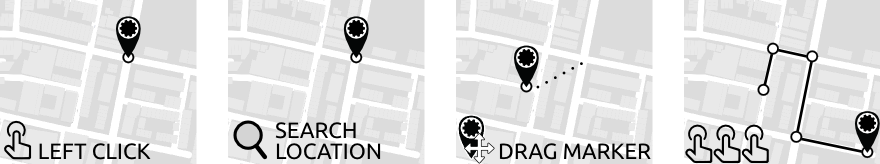
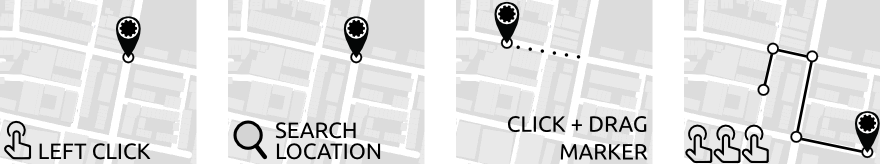
updated map help > ver 3.1 from meeting

Changed region(s): [[0.5216, 0.7012, 0.7364, 1.0], [0.5523, 0.0, 0.6443, 0.5793], [0.6443, 0.3354, 0.675, 0.3659]]

diff --git a/cadence/public/css/style.css b/cadence/public/css/style.css
@@ -50,6 +50,24 @@ body {
     overflow-y: hidden;
 }
 
+
+/** base styles **/
+.panel-border {
+    border: 3px solid rgba(33,135,243,1);   /** #2187F3 **/
+    -webkit-box-shadow: 0px 5px 10px 0px rgba(0,0,0,0.5);
+    -moz-box-shadow: 0px 5px 10px 0px rgba(0,0,0,0.5);
+    box-shadow: 0px 5px 10px 0px rgba(0,0,0,0.5);
+
+}
+
+.side-dimen {
+    position: absolute;
+    width: 480px;
+    top: 30px;
+    bottom: 30px;
+    right: 20px;
+}
+
 /** gear icon **/
 .gear {
     background: transparent url('../img/veloscape-gear-white-border.png') center no-repeat;
@@ -262,11 +280,6 @@ body {
 
 /* map side menu */
 .side-menu {
-    position: absolute;
-    width: 480px;
-    top: 30px;
-    bottom: 30px;
-    right: 20px;
     z-index: 600;
     background: transparent;
     font-weight: 600;
@@ -376,12 +389,7 @@ abbr.no-border {
 
 /** confirm css **/
 .side-confirm {
-    position: absolute;
     z-index: 650;
-    top: 30px;
-    bottom: 30px;
-    right: 20px;
-    width: 480px;
     background-color: transparent;
     font-weight: 500;
     overflow: hidden;
@@ -486,17 +494,13 @@ abbr.no-border {
     color: #FFFFFF !important;
     font-weight: 700;
     margin-top: 20px;
+    text-transform: lowercase;
 }
 
 /** search css **/
 .side-search {
-    position: absolute;
     display: none;
     z-index: 800;
-    top: 30px;
-    right: 20px;
-    bottom: 30px;
-    width: 480px;
     border-radius: 10px;
     height: auto;
     background-color: #FFFFFF;
@@ -586,6 +590,7 @@ abbr.no-border {
     margin-top: 5px;
     color: #FFFFFF;
     font-weight: 700;
+    text-transform: lowercase;
 }
 
 .btn-positive {
@@ -622,8 +627,8 @@ abbr.no-border {
 .section-reverse .blue {
     font-size: 20px;
     font-weight: 600;
-    color: #2196F3;
 }
+
 
 .section-centered {
     text-align: center;
@@ -639,7 +644,7 @@ abbr.no-border {
     margin-left: 5px;
     margin-right: 5px;
     border-width: 2px;
-    border-color: #2196f3;
+    border-color: #2187f3;
     background-color: #FFFFFF;
     padding-top: 4px;
     padding-bottom: 4px;
@@ -672,8 +677,8 @@ abbr.no-border {
 
 .btn-path-label {
     display: block;
-    font-weight: 500;
-    text-transform: uppercase;
+    font-weight: 700;
+    text-transform: lowercase;
 }
 
 /** slider css **/
@@ -747,7 +752,7 @@ abbr.no-border {
 .rate-value {
     display: inline-block;
     font-size: 16px;
-    font-weight: 500;
+    font-weight: 700;
     line-height: 1.12;
     margin-left: 60px;
     max-width: 40%;
@@ -821,9 +826,17 @@ abbr.no-border {
     overflow-y: auto;
 }
 
+.help .inner h3 {
+    color: #F06292;
+}
+
 .help .img-container {
     width: 600px;
     margin: auto;
+    margin-left: auto;
+    margin-right: auto;
+    margin-top: 12px;
+    margin-bottom: 20px;
 }
 
 .help .img-container.center {
@@ -838,4 +851,12 @@ abbr.no-border {
     right: 0px;
     text-align: center;
     font-size: 20px;
+}
+
+.blue {
+    color: #2187F3;
+}
+
+.pink {
+    color: #F06292;
 }

diff --git a/cadence/public/js/map-events.js b/cadence/public/js/map-events.js
@@ -317,12 +317,12 @@ function showHelp() {
         return;
     }
     $(".help").fadeIn("fast");
-    $(".side-menu").hide();
+    $(".side-dimen").addClass("hidden");
 }
 
 function hideHelp() {
     $(".help").fadeOut("fast");
-    $(".side-menu").show();
+    $(".side-dimen").removeClass("hidden");
 }
 
 function submitComplete() {
@@ -430,7 +430,6 @@ $(document).ready(function() {
         dismissSearchPane();
     });
 
-    //FIX
     $(".btn-search").click(function() {
         if ($(".body-container").hasClass("submit-active")) {
             return;
@@ -440,7 +439,6 @@ $(document).ready(function() {
         $("#pac-input").val('').select();
     });
 
-    //FIX
     $("#search").click(function() {
         var address = $("#pac-input").val();
         searchAddress(address);

diff --git a/cadence/public/js/map.js b/cadence/public/js/map.js
@@ -13,7 +13,7 @@ var zoom = 15;
 var mapTypeId = google.maps.MapTypeId.ROADMAP;
 
 //init poly settings
-var strokeColor = '#1e88e5';
+var strokeColor = '#2187F3';
 var strokeOpacity = 1.0;
 var strokeWeight = 3;
 

diff --git a/cadence/public/css/admin.css b/cadence/public/css/admin.css
@@ -123,3 +123,11 @@ a:hover {
     top: 100%;
     margin-top: 20px;
 }
+
+.table {
+    table-layout: fixed !important;
+}
+
+.table .break {
+    word-break: break-all;
+}

diff --git a/cadence/app/views/map/help.blade.php b/cadence/app/views/map/help.blade.php
@@ -4,22 +4,22 @@
         <h3>Using the Veloscape Map</h3>
         <p>
             Share your cycling experiences with us by mapping your journeys on the veloscape map. 
-            Place Markers on the map to plot out your routes by either Left Clicking on the map 
-            or using the Search Location button. 
+            Place markers on the map to plot out your routes by either <b>left clicking</b> on the map 
+            or using the <b class="blue">SEARCH LOCATION</b> button. 
             Markers can be dragged around to re-position them if required.
-            Keep dropping new Markers until you've mapped out your entire journey!
+            Keep dropping new markers until you've mapped out your entire journey!
         </p>
         <div class="img-container">
             <img src="/map/img/map-help-7.png" class="img-responsive">
         </div>
         <p>
-            The <b>RESET</b> button can be used to clear away all Markers you've made and start from the beginning.
-            When you're happy with your map, click on the <b>SUBMIT</b> button and give your journey a name 
-            (eg: Ashfield to the CBD). Hit <b>CONFIRM</b> to complete your response, its that easy.
+            The <b class="blue">RESET MAP</b> button can be used to clear away all markers you've made and start from the beginning.
+            When you're happy with your map, click on the <b class="blue">SUBMIT</b> button and give your journey a name 
+            (eg: Ashfield to the CBD). Hit <b class="blue">confirm</b> to complete your response, its that easy.
         </p>
 
         <h3>The Marker Controls</h3>
-        <p>Once you've placed a Marker, the side panel will change to show the Marker controls (shown below) and Feedback questions.
+        <p>Once you've placed a marker, the side panel will change to show the marker controls (shown below) and Feedback questions.
         </p>
         <div class="img-container center">
             <img src="/map/img/map-help-6.png" class="img-responsive">
@@ -31,21 +31,21 @@
         <p><b>3. Next Marker</b> - Selects the next Marker in your journey. </p>
         <p><b>4. Delete Marker</b> - Removes the currently selected Marker from your journey. </p>
             
-        <h3>Providing Detailed Feedback</h3>
+        <h3>Share Your Riding Experiences</h3>
         <p>
-            Completing the addtional feedback questions are entirely optional but much appreciated!
-            You may fill in as much, or as little as you like for each Marker.
+            The options in Question 1 can be selected with a <b>left click</b>.
         </p>
+        <p>
+            Use the sliders to tell us where you feel exposed to danger <b>(safety)</b>, where you can set your own pace <b>(momentum)</b>, 
+            and how much you love it, or hate it! <b>(enjoyment)</b>. Hover over each <i class="fa fa-info-circle fa-inverse"></i> 
+            to see a detailed explanation of the category.
+        </p>
+        <p>
+            Use the comment box to tell us more: share a memory or an observation, identify an infrastructure problem, recommend a solution!
+        </p>
+        <p>You may fill in as much, or as little as you like for each marker.</p>
 
-        <p>
-            The options in Question 1 can be selected by Left Clicking.
-        </p>
-        <p>
-            The sliders in Question 2 can be dragged left or right, choose the level which fits best.
-            Hover over each title (Safety, Momentum and Enjoyment) to see a detailed explanation for the category.
-        </p>
-
-        <p><b>Want more help or want to provide feedback? Write to us at veloscape@unsw.edu.au</b></p>
+        <p><b>Want more help or want to provide feedback? Write to us at <span class="blue"><a href="mailto:veloscape@unsw.edu.au">veloscape@unsw.edu.au</a></span></b></p>
     </div>
 
     <div class="btn dismiss-help">

diff --git a/cadence/app/views/map/form-template.blade.php b/cadence/app/views/map/form-template.blade.php
@@ -36,6 +36,9 @@
             <button type="button" class="btn btn-path path-shared-foot" data-type="sharedfootpath">
                 <span class="btn-path-label">Shared Footpath</span>
             </button>
+            <button type="button" class="btn btn-path path-offroad" data-type="offroad">
+                <span class="btn-path-label">Off-Road</span>
+            </button>
             <div class="form-hidden">
             {{ Form::label($type, 'type') }}
             {{ Form::text($type, 'none', ['class' => 'type']) }}
@@ -96,6 +99,6 @@
         <div class="section-reverse">
             <span class="h4"><span class="blue">3.</span> Any additional thoughts or comments?</span>
         </div>
-            <textarea id="{{$comments}}" name="{{$comments}}" class="form-control comments" placeholder="(Max 250 characters)"></textarea>
+            <textarea id="{{$comments}}" name="{{$comments}}" class="form-control comments" placeholder="(Max 1000 characters)"></textarea>
     </div>
 </div>

diff --git a/cadence/app/views/admin/routes.blade.php b/cadence/app/views/admin/routes.blade.php
@@ -40,8 +40,8 @@
                         @foreach ($routes as $route)
                             <tr>
                                 <th>{{$route->id}}</th>
-                                <th>{{$route->title}}</th>
-                                <th>{{$route->desc}}</th>
+                                <th class="break">{{$route->title}}</th>
+                                <th class="break">{{$route->desc}}</th>
                                 <th>{{$route->markers->first()->rev_geo }}</th>
                                 <th>{{$route->markers->last()->rev_geo }}</th>
                                 <th>{{$route->updated_at}}</th>

diff --git a/cadence/app/views/map/search.blade.php b/cadence/app/views/map/search.blade.php
@@ -1,4 +1,4 @@
-<div class="side-search">
+<div class="side-search side-dimen">
     <div class="search-main">
         <div class="side-header">
             <h3>Search Location</h3>

diff --git a/cadence/app/views/map/confirm.blade.php b/cadence/app/views/map/confirm.blade.php
@@ -1,4 +1,4 @@
-<div class="side-confirm">
+<div class="side-confirm side-dimen">
     <div class="confirm-main">
         <div class="inputs">
             <div class="side-header">

diff --git a/cadence/app/views/map/side-menu.blade.php b/cadence/app/views/map/side-menu.blade.php
@@ -1,4 +1,4 @@
-<div class="side-menu">
+<div class="side-menu side-dimen">
     <div class="side-main">
         <div class="inner">
             @include('map.info')
